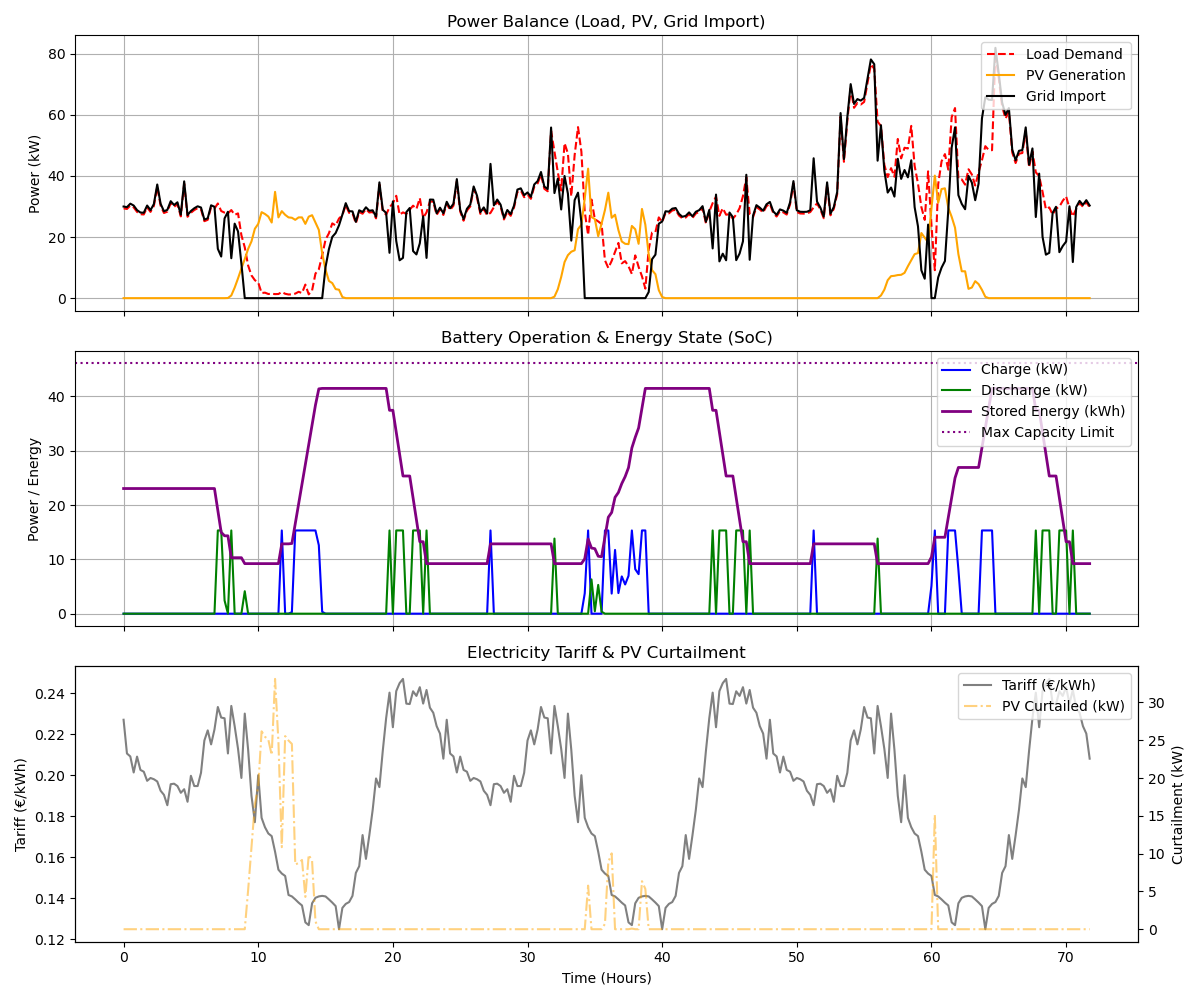
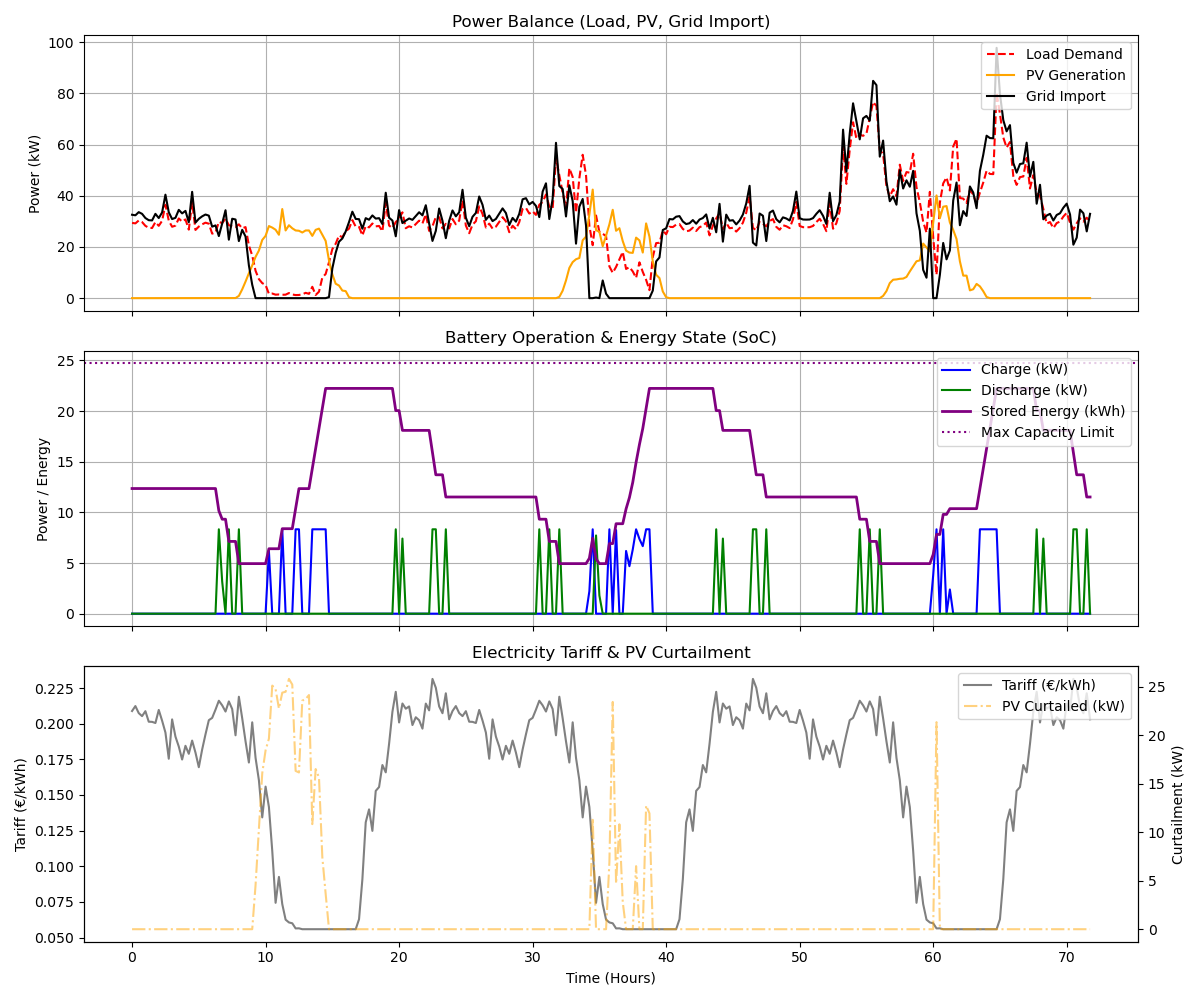
parameter test and general optimizer system

diff --git a/BMS_brain/src/battery_optimizer.py b/BMS_brain/src/battery_optimizer.py
@@ -66,6 +66,9 @@ CRF = (discount_rate * (1 + discount_rate)**life_years) / ((1 + discount_rate)**
 
 C_E = 500.0 # Battery capacity cost [EUR/kWh]
 C_P = 100.0 # Battery inverter/power cost [EUR/kW]
+eta_pv = 0.98       # PV MPPT efficiency
+eta_acdc = 0.95     # Grid rectifier efficiency
+eta_dcac = 0.95     # EV/Load inverter efficiency
 
 # ===============
 # 1.1 Degradation cost. Using THE POLYNOMIAL APPROACH
@@ -82,9 +85,9 @@ c_deg = c_rep/(n_total*DoD) # Linearized marginal degradation cost [EUR/kWh thro
 
 
 # Technical Parameters
-eta_pv = 0.99       # PV MPPT efficiency
-eta_acdc = 0.99     # Grid rectifier efficiency
-eta_dcac = 0.99     # EV/Load inverter efficiency
+# eta_pv = 0.99       # PV MPPT efficiency
+# eta_acdc = 0.99     # Grid rectifier efficiency
+# eta_dcac = 0.99     # EV/Load inverter efficiency
 eta_c = 0.95        # Battery charging efficiency
 eta_d = 0.95        # Battery discharging efficiency
 
